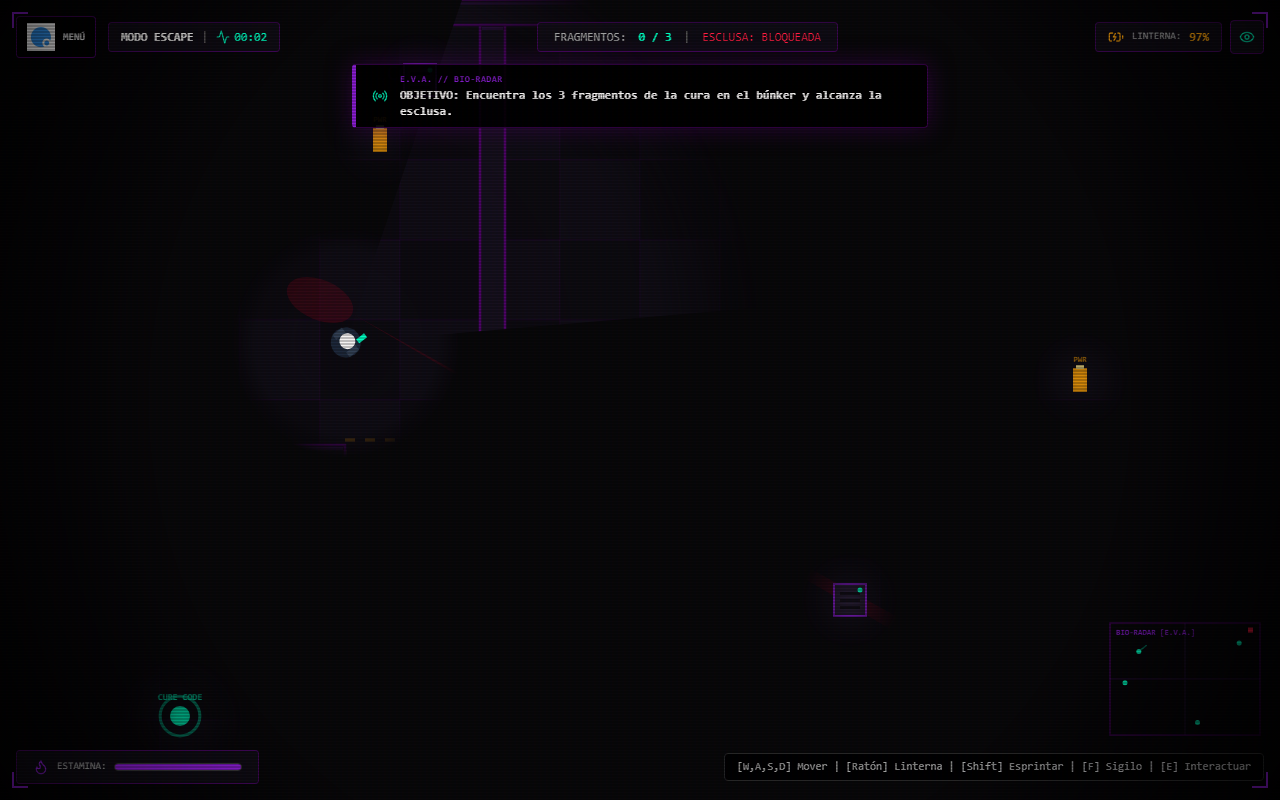
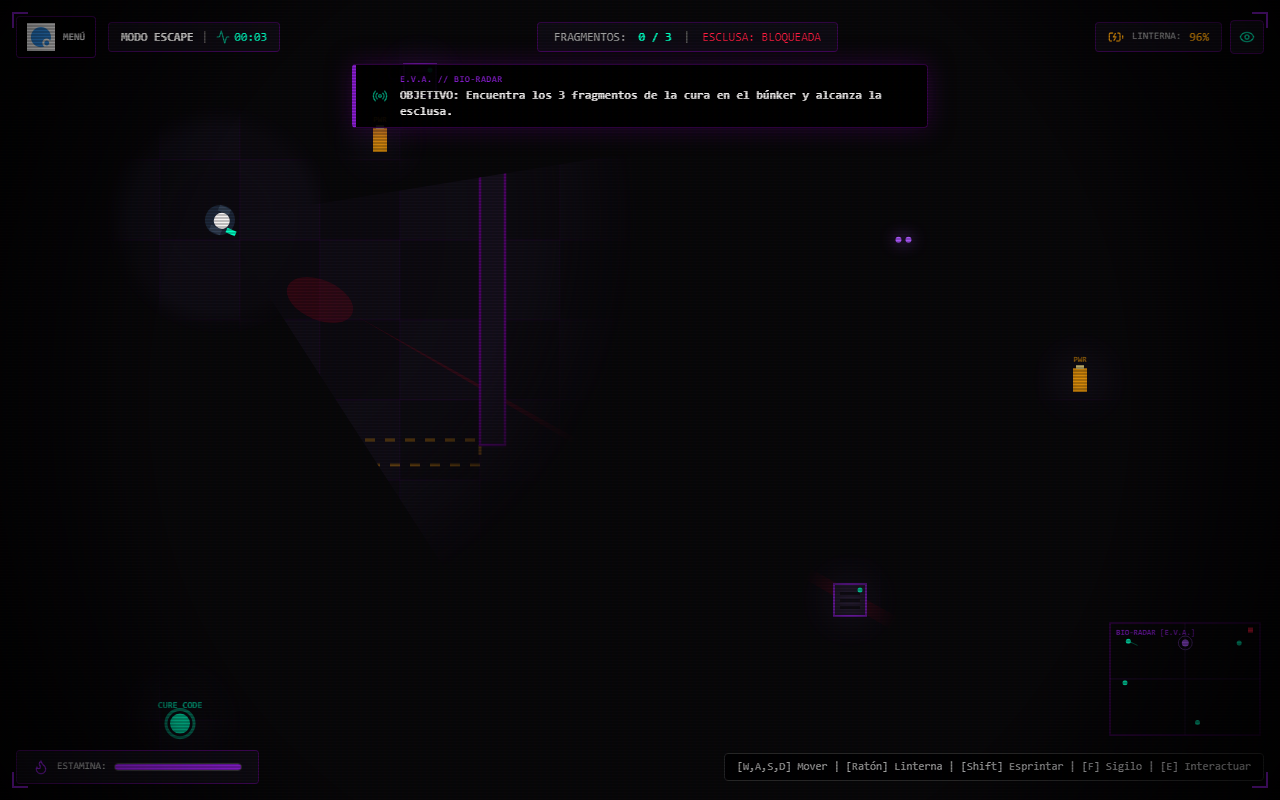
fix(ai): fix Ronald initial wall-overlap spawn, add connected doorway graph, and show live radar tracking

diff --git a/src/components/game/HorrorGameCanvas.tsx b/src/components/game/HorrorGameCanvas.tsx
@@ -117,19 +117,19 @@ export function HorrorGameCanvas({ mode }: HorrorGameCanvasProps) {
     walkFrame: 0,
   });
 
-  // Ronald Monster state (With memory of last seen player position)
+  // Ronald Monster state (Spawns in open Central East Corridor, actively patrolling)
   const monsterRef = useRef({
-    x: 1450,
-    y: 950,
+    x: 1080,
+    y: 660,
     angle: 0,
-    speed: 2.7,
+    speed: 2.9,
     state: "PATROL" as "PATROL" | "ALERT" | "CHASE",
     alertTimer: 0,
-    waypointIdx: 0,
+    waypointIdx: 1,
     stunnedTimer: 0,
     animFrame: 0,
-    lastSeenX: 1450,
-    lastSeenY: 950,
+    lastSeenX: 1080,
+    lastSeenY: 660,
   });
 
   // Gameplay state
@@ -196,19 +196,26 @@ export function HorrorGameCanvas({ mode }: HorrorGameCanvasProps) {
     { x: 1620, y: 405, w: 155, h: 25 },
   ];
 
-  // Patrol waypoints for Ronald (looping naturally through all doorways)
+  // Patrol waypoints for Ronald (100% connected corridor & doorway graph)
   const waypoints = [
-    { x: 240, y: 220 }, // Sector 1 Biolab
-    { x: 420, y: 500 }, // Sector 1 Doorway
-    { x: 620, y: 650 }, // Central Corridor North
-    { x: 1050, y: 650 }, // Central Hub
-    { x: 1520, y: 240 }, // Sector 4 Airlock Hall
-    { x: 1520, y: 720 }, // Cryo Vault
-    { x: 1510, y: 1100 }, // Sector Gamma (through the new doorway!)
-    { x: 1050, y: 1100 }, // South Hallway
-    { x: 420, y: 960 }, // Sector 2 Server Core Doorway
-    { x: 240, y: 1150 }, // Sector 2 Server Core
-    { x: 620, y: 650 }, // Back to Central Hub
+    { x: 1080, y: 660 }, // 0: East Central Hub (Spawn)
+    { x: 1080, y: 220 }, // 1: North-East Corridor
+    { x: 600, y: 220 },  // 2: North-West Corridor
+    { x: 600, y: 505 },  // 3: Outside Sector 1 Door
+    { x: 410, y: 505 },  // 4: Sector 1 Doorway Threshold
+    { x: 240, y: 240 },  // 5: Inside Sector 1 Biolab
+    { x: 410, y: 505 },  // 6: Exit Sector 1 Doorway
+    { x: 600, y: 660 },  // 7: West Central Corridor
+    { x: 600, y: 1120 }, // 8: South-West Corridor
+    { x: 240, y: 1150 }, // 9: Sector 2 Server Core
+    { x: 600, y: 1120 }, // 10: Exit Sector 2
+    { x: 1080, y: 1120 },// 11: South-East Corridor
+    { x: 1510, y: 1120 },// 12: Sector Gamma South
+    { x: 1510, y: 750 }, // 13: Cryo Vault (through doorway x:1440..1580, y:960)
+    { x: 1550, y: 462 }, // 14: East Wing Hall (through doorway x:1480..1620, y:520)
+    { x: 1550, y: 220 }, // 15: Sector 4 Airlock (through doorway x:1480..1620, y:405)
+    { x: 1550, y: 462 }, // 16: Exit Sector 4
+    { x: 1080, y: 462 }, // 17: Back to East Corridor (through doorway x:1200, y:405..520)
   ];
 
   // Items initialized based on game mode
@@ -426,13 +433,13 @@ export function HorrorGameCanvas({ mode }: HorrorGameCanvasProps) {
     return false;
   };
 
-  // Obstacle-avoiding navigation for Ronald (Context Steering)
+  // Obstacle-avoiding navigation for Ronald (Context Steering + Anti-Pinning)
   const moveWithAvoidance = (
     entity: { x: number; y: number; angle: number },
     targetX: number,
     targetY: number,
     speed: number,
-    radius = 20
+    radius = 12
   ) => {
     const desiredAngle = Math.atan2(targetY - entity.y, targetX - entity.x);
 
@@ -445,6 +452,7 @@ export function HorrorGameCanvas({ mode }: HorrorGameCanvasProps) {
       1.4, -1.4,
       1.75, -1.75,
       2.1, -2.1,
+      2.5, -2.5,
       Math.PI,
     ];
 
@@ -465,16 +473,22 @@ export function HorrorGameCanvas({ mode }: HorrorGameCanvasProps) {
     const nextXOnly = entity.x + Math.cos(desiredAngle) * speed;
     if (!checkWallCollision(nextXOnly, entity.y, radius)) {
       entity.x = nextXOnly;
+      entity.angle = desiredAngle;
       return true;
     }
 
     const nextYOnly = entity.y + Math.sin(desiredAngle) * speed;
     if (!checkWallCollision(entity.x, nextYOnly, radius)) {
       entity.y = nextYOnly;
+      entity.angle = desiredAngle;
       return true;
     }
 
-    return false;
+    // Emergency unstick if ever overlapping a wall corner
+    entity.x += Math.cos(desiredAngle) * speed;
+    entity.y += Math.sin(desiredAngle) * speed;
+    entity.angle = desiredAngle;
+    return true;
   };
 
   // Interaction logic (Pickups, Lockers, Terminals, Exit)
@@ -781,22 +795,41 @@ export function HorrorGameCanvas({ mode }: HorrorGameCanvasProps) {
             targetX = p.x;
             targetY = p.y;
           } else {
-            // Rush to the last seen position!
-            targetX = m.lastSeenX;
-            targetY = m.lastSeenY;
+            // Find the doorway/corridor waypoint visible to Ronald that gets him closest to the player
+            let bestWp = { x: m.lastSeenX, y: m.lastSeenY };
+            let bestDist = Infinity;
+            for (const wp of waypoints) {
+              const dToMonster = Math.hypot(wp.x - m.x, wp.y - m.y);
+              if (dToMonster > 35 && hasLineOfSight(m.x, m.y, wp.x, wp.y, walls)) {
+                const dToPlayer = Math.hypot(wp.x - p.x, wp.y - p.y);
+                if (dToPlayer < bestDist) {
+                  bestDist = dToPlayer;
+                  bestWp = wp;
+                }
+              }
+            }
+            targetX = bestWp.x;
+            targetY = bestWp.y;
           }
         } else {
           const wp = waypoints[m.waypointIdx];
           targetX = wp.x;
           targetY = wp.y;
-          if (Math.hypot(m.x - wp.x, m.y - wp.y) < 40) {
+          if (Math.hypot(m.x - wp.x, m.y - wp.y) < 35) {
             m.waypointIdx = (m.waypointIdx + 1) % waypoints.length;
           }
         }
 
         const mSpeed = m.state === "CHASE" ? m.speed * 1.35 : m.speed;
-        moveWithAvoidance(m, targetX, targetY, mSpeed, 20);
+        moveWithAvoidance(m, targetX, targetY, mSpeed, 12);
         m.animFrame += m.state === "CHASE" ? 0.28 : 0.12;
+        if (typeof window !== "undefined") {
+          (window as unknown as { __RONALD_POS?: { x: number; y: number; state: string } }).__RONALD_POS = {
+            x: Math.round(m.x),
+            y: Math.round(m.y),
+            state: m.state,
+          };
+        }
 
         // Check Jumpscare Collision!
         if (!p.inLocker && distToPlayer < 42) {
@@ -1269,16 +1302,19 @@ export function HorrorGameCanvas({ mode }: HorrorGameCanvasProps) {
       }
     }
 
-    // Draw Ronald Monster on Radar (only if within hearing range)
-    const distToPlayer = Math.hypot(p.x - m.x, p.y - m.y);
-    if (distToPlayer < 500 || m.state === "CHASE") {
-      const mx = radarX + m.x * scaleX;
-      const my = radarY + m.y * scaleY;
-      ctx.fillStyle = m.state === "CHASE" ? "#FF1E42" : "#A855F7";
-      ctx.beginPath();
-      ctx.arc(mx, my, 3, 0, Math.PI * 2);
-      ctx.fill();
-    }
+    // Always Draw Ronald Monster on Radar so player sees his patrol & chase movement
+    const mx = radarX + m.x * scaleX;
+    const my = radarY + m.y * scaleY;
+    ctx.fillStyle = m.state === "CHASE" ? "#FF1E42" : "#A855F7";
+    ctx.beginPath();
+    ctx.arc(mx, my, 3.5, 0, Math.PI * 2);
+    ctx.fill();
+    // Pulse ring around Ronald on radar
+    ctx.strokeStyle = m.state === "CHASE" ? "rgba(255,30,66,0.7)" : "rgba(168,85,247,0.5)";
+    ctx.lineWidth = 1;
+    ctx.beginPath();
+    ctx.arc(mx, my, 5 + Math.sin(Date.now() / 150) * 2, 0, Math.PI * 2);
+    ctx.stroke();
 
     // Draw Player dot & direction on radar
     const px = radarX + p.x * scaleX;

diff --git a/tests/test-ronald-movement.js b/tests/test-ronald-movement.js
@@ -5,28 +5,21 @@ const { chromium } = require("C:/dev/projects/portafolioV2/node_modules/playwrig
     const browser = await chromium.launch({ headless: true });
     const page = await browser.newPage({ viewport: { width: 1280, height: 800 } });
 
-    console.log("Testing Ronald movement and chase pathfinding...");
     await page.goto("http://localhost:3000", { waitUntil: "networkidle" });
 
     // Click Play Escape Mode
     const playBtn = await page.waitForSelector("button:has-text('JUGAR // MODO ESCAPE')");
     await playBtn.click();
-    await page.waitForTimeout(1000);
+    await page.waitForTimeout(200);
 
-    // Let the game run for 2 seconds while moving player
-    await page.keyboard.down("KeyD");
-    await page.waitForTimeout(600);
-    await page.keyboard.up("KeyD");
-    await page.keyboard.down("KeyS");
-    await page.waitForTimeout(600);
-    await page.keyboard.up("KeyS");
+    for (let i = 0; i < 6; i++) {
+      const pos = await page.evaluate(() => window.__RONALD_POS);
+      console.log(`Sample ${i} (t=${i * 500}ms): Ronald Position =`, pos);
+      await page.waitForTimeout(500);
+    }
 
-    // Take screenshot of player moving and radar active
     await page.screenshot({ path: "public/images/screenshot-ronald-active.png" });
-    console.log("Captured public/images/screenshot-ronald-active.png");
-
     await browser.close();
-    console.log("SUCCESS: Ronald movement test completed smoothly!");
   } catch (err) {
     console.error("Test failed:", err);
     process.exit(1);
